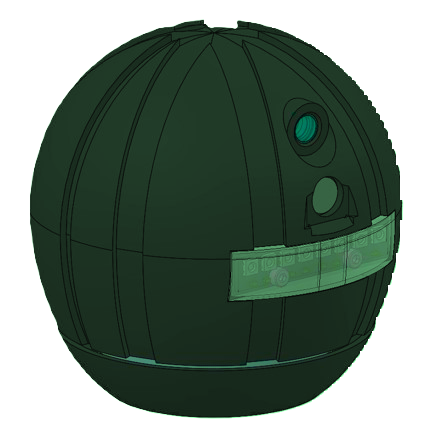
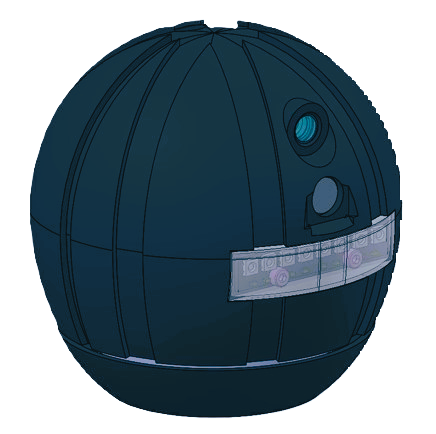
Update robot order and display
Update the color images to be ordered RGB and match the position of robots to that of demonstrator timeline.

diff --git a/index.html b/index.html
@@ -121,9 +121,9 @@
                 <map-situation background-src="images/robot_map.png" 
                     situation-width="-5.26" situation-height="3.5137" 
                     situation-left-position="2.614" situation-top-position="-0.8537">
-                    <map-marker icon-src="images/robot_0.png" receiver-id="data-receiver" serial-number="00000000" x-position="0.7" z-position="0"></map-marker>
+                    <map-marker icon-src="images/robot_0.png" receiver-id="data-receiver" serial-number="00000000" x-position="-0.7" z-position="0"></map-marker>
                     <map-marker icon-src="images/robot_1.png" receiver-id="data-receiver" serial-number="00000001" x-position="0" z-position="0"></map-marker>
-                    <map-marker icon-src="images/robot_2.png" receiver-id="data-receiver" serial-number="00000002" x-position="-0.7" z-position="0"></map-marker>
+                    <map-marker icon-src="images/robot_2.png" receiver-id="data-receiver" serial-number="00000002" x-position="0.7" z-position="0"></map-marker>
                 </map-situation>
             </div>
                 <div class="backend-banner-4">
